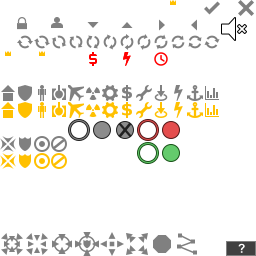
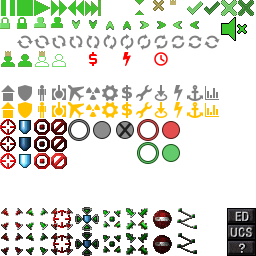
New menu artwork
- Menu artwork was updated.
- Updated some glyphs
- Added UCS, ED and random faction flags

diff --git a/README.md b/README.md
@@ -13,7 +13,8 @@ Work in progress. Most recent video preview is here: [OpenE2140 - preview #2](ht
 
 - [Dzierzan](https://github.com/Dzierzan)
 	* Custom artwork for faction sidebars and command bars,
-	* main menu artwork (in progress),
+	* main menu artwork,
+	* reskinned glyphs,
 	* custom resource sprites (in progress).
 
 ## Special thanks!
